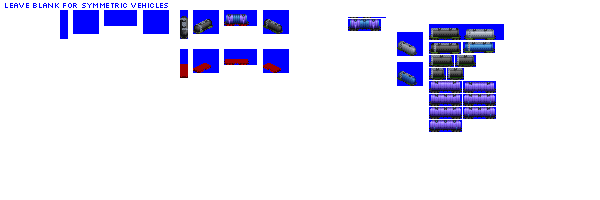
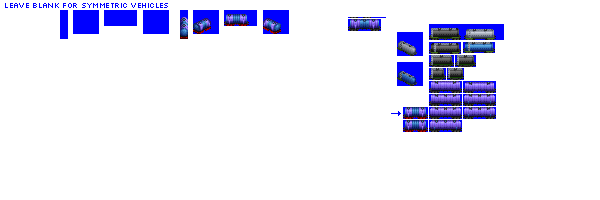
Change: sprites complete for gen 6B tank car

Changed region(s): [[0.3, 0.24, 0.48, 0.39], [0.3, 0.06, 0.48, 0.21], [0.66, 0.51, 0.72, 0.66]]

diff --git a/src/vehicles/tank_cars.py b/src/vehicles/tank_cars.py
@@ -132,7 +132,8 @@ def main():
     consist = TankCarConsist(roster='pony',
                              base_numeric_id=2970,
                              gen=6,
-                             subtype='B')
+                             subtype='B',
+                             sprites_complete=True)
 
     consist.add_unit(type=FreightCar,
                      vehicle_length=6,
